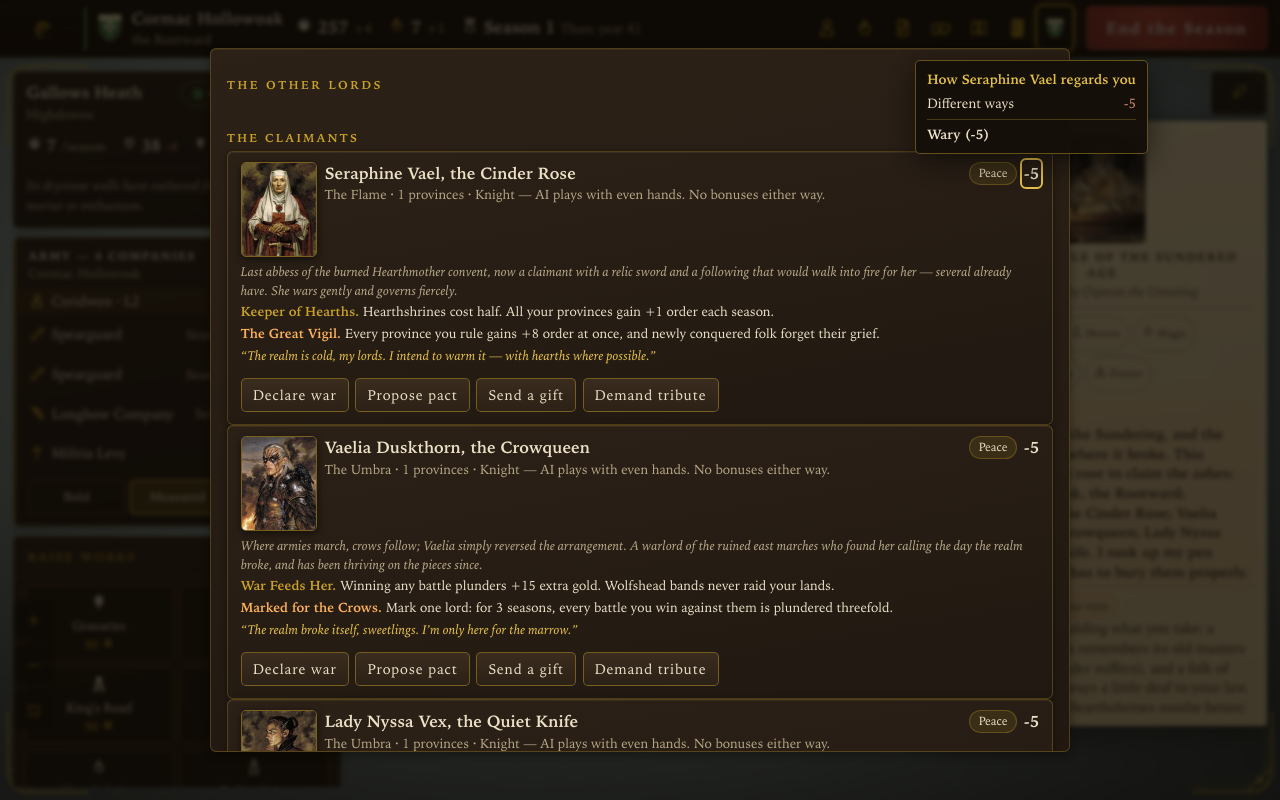
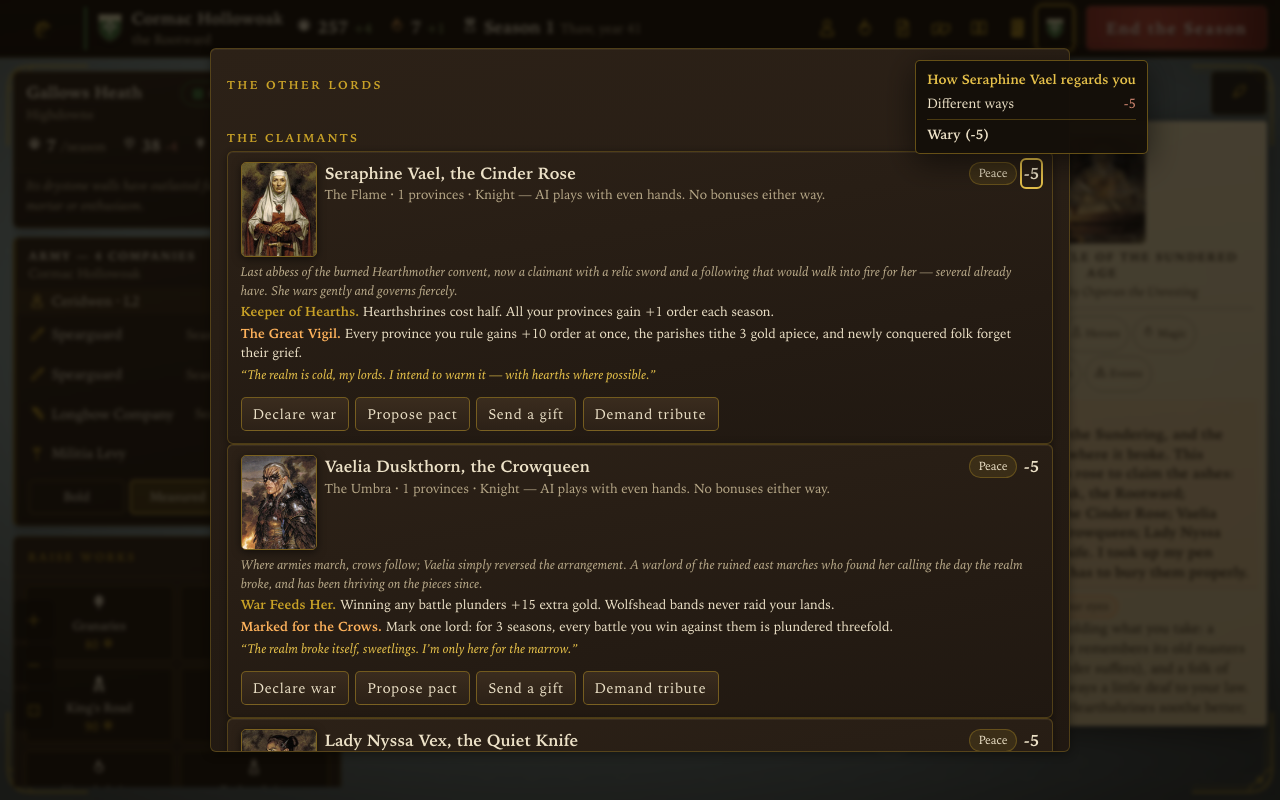
The release strategy: five go-to-market documents become one operating plan; fresh media (the gallery joins the tour, a 0.9 MB mp4, the gif on a diet); README tells today's truth

Changed region(s): [[0.1875, 0.4062, 0.8125, 0.9375], [0.75, 0.875, 0.8125, 0.9375]]

diff --git a/README.md b/README.md
@@ -7,7 +7,7 @@
 <p align="center">Twelve lords · one cold throne · a narrator who refuses to stay dead</p>
 
 <p align="center">
-<a href=".github/workflows/ci.yml"><img src="https://img.shields.io/badge/CI-typecheck_·_56_tests_·_sim-2ea44f" alt="CI"></a>
+<a href=".github/workflows/ci.yml"><img src="https://img.shields.io/badge/CI-typecheck_·_tests_·_sim_·_build-2ea44f" alt="CI"></a>
 <a href="LICENSE"><img src="https://img.shields.io/badge/code-AGPL--3.0-8a4d00" alt="Code: AGPL-3.0"></a>
 <a href="LICENSE-CONTENT"><img src="https://img.shields.io/badge/content_&_art-CC_BY--SA_4.0-8a4d00" alt="Content: CC BY-SA 4.0"></a>
 <img src="https://img.shields.io/badge/accounts-none,_ever-1c1e21" alt="No accounts, no tracking">
@@ -17,7 +17,9 @@
 
 > A side project that got gloriously out of hand: a love letter to the *spirit* of SSI's 1993 classic Fantasy Empires — original fiction, original rules, zero runtime dependencies, and a dead chronicler who still meets his deadlines.
 
-![One tour of Realms in Embers: the hall, the war table, an honest battle, the painted lords](docs/media/playthrough.gif)
+![One tour of Realms in Embers: the hall, the painted lords, the war table, an honest battle](docs/media/playthrough.gif)
+
+<p align="center"><i>(A crisper <a href="docs/media/playthrough.mp4">mp4 of the tour</a> lives in the <a href="https://rie.gg/press.html">press kit</a>.)</i></p>
 
 ## Play
 
@@ -31,7 +33,7 @@ Pick a lord in the painted gallery (twelve, in three creeds, each with a real te
 
 <table>
 <tr>
-<td width="50%"><img src="docs/media/title.png" alt="The title screen: a candlelit hall, the wordmark glowing over a war table"></td>
+<td width="50%"><img src="docs/media/gallery.png" alt="The lord gallery: a painted portrait, creed, temperament bars, and both abilities on one set-piece screen"></td>
 <td width="50%"><img src="docs/media/war-table.png" alt="The war table: a painted map of provinces, the chronicle feed on the right"></td>
 </tr>
 <tr>